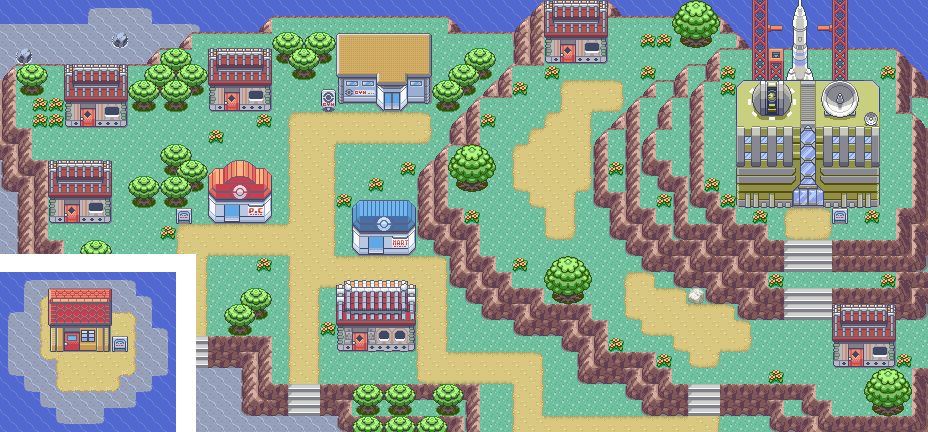
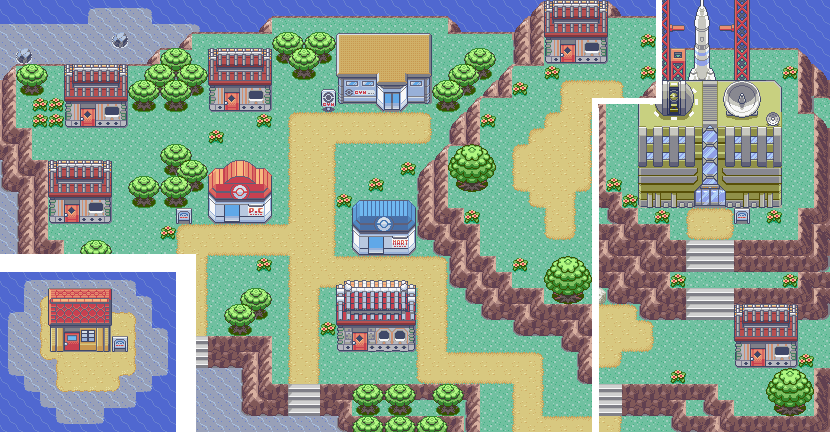
Reduced width in emerald

diff --git a/emerald.js b/emerald.js
@@ -100,14 +100,14 @@ var emerald = {
         },
 
         mauville_r117: {
-            gym:     {x: 346, y: 53 },
-            center:  {x: 571, y: 56 },
-            bicycle: {x: 779, y: 55 },
-            casino:  {x: 345, y: 175},
-            left:    {x: 524, y: 197},
-            mart:    {x: 596, y: 260},
-            right:   {x: 731, y: 200},
-            daycare: {x: 103, y: 156},
+            gym:     {x: 135, y: 50 },
+			center:  {x: 369, y: 50 },
+			bicycle: {x: 569, y: 50 },
+			casino:  {x: 135, y: 179},
+			left:    {x: 310, y: 190},
+			mart:    {x: 378, y: 260},
+			right:   {x: 526, y: 190},
+			daycare: {x: 115, y: 374},
         },
 
         verdanturf: {
@@ -178,8 +178,8 @@ var emerald = {
             center:     {x: 239, y: 188, name: "Mossdeep City"},
             mart:       {x: 385, y: 222, name: "Mossdeep City"},
             botmart:    {x: 374, y: 315, name: "Mossdeep City"},
-            space:      {x: 808, y: 160, name: "Mossdeep City"},
-            botspace:   {x: 854, y: 330, name: "Mossdeep City"},
+            space:      {x: 710, y: 160, name: "Mossdeep City"},
+            botspace:   {x: 748, y: 330, name: "Mossdeep City"},
             leftspace:  {x: 574, y: 24 , name: "Mossdeep City"},
             r124:       {x: 73,  y: 314, name: "Route 124"    },
         },
@@ -403,29 +403,36 @@ var emerald = {
             hub_row4right:    {x: 474, y: 361, name: "Aqua Hideout (Hub 4)"},
         },
         seafloor_underwater: {
-            underwater_r126: {x: 319, y: 793, name: "Route 126"          },
-            underwater_r128: {x: 610, y: 848, name: "Route 128"          },
+            underwater_r126: {x: 151, y: 660, name: "Route 126"          },
+            underwater_r128: {x: 711, y: 660, name: "Route 128"          },
+
             room1_top:       {x: 104, y: 60 , name: "Seafloor (Room 1)"  },
             room1_right:     {x: 279, y: 207, name: "Seafloor (Room 1)"  },
             room1_left:      {x: 87,  y: 284, name: "Seafloor (Room 1)"  },
-            room2_top:       {x: 409, y: 50 , name: "Seafloor (Room 2)"  },
-            room2_right:     {x: 584, y: 193, name: "Seafloor (Room 2)"  },
-            room2_left:      {x: 456, y: 268, name: "Seafloor (Room 2)"  },
-            room3_topleft:   {x: 735, y: 50 , name: "Seafloor (Room 3)"  },
-            room3_topright:  {x: 901, y: 50 , name: "Seafloor (Room 3)"  },
-            room3_mid:       {x: 826, y: 186, name: "Seafloor (Room 3)"  },
-            room3_bot:       {x: 840, y: 284, name: "Seafloor (Room 3)"  },
-            room4_topleft:   {x: 104, y: 400, name: "Seafloor (Boulders)"},
-            room4_topright:  {x: 186, y: 365, name: "Seafloor (Boulders)"},
-            room4_botleft:   {x: 72,  y: 512, name: "Seafloor (Boulders)"},
-            room4_botright:  {x: 167, y: 461, name: "Seafloor (Boulders)"},
-            room5_top:       {x: 376, y: 400, name: "Seafloor (Surf)"    },
-            room5_mid:       {x: 534, y: 510, name: "Seafloor (Surf)"    },
-            room5_bot:       {x: 488, y: 684, name: "Seafloor (Surf)"    },
-            room7_top:       {x: 841, y: 400, name: "Seafloor (Puzzle)"  },
-            room7_left:      {x: 776, y: 590, name: "Seafloor (Puzzle)"  },
-            room7_right:     {x: 856, y: 556, name: "Seafloor (Puzzle)"  },
+
+            room2_top:       {x: 370, y: 50 , name: "Seafloor (Room 2)"  },
+            room2_right:     {x: 540, y: 185, name: "Seafloor (Room 2)"  },
+            room2_left:      {x: 416, y: 268, name: "Seafloor (Room 2)"  },
+
+            room3_topleft:   {x: 606, y: 50 , name: "Seafloor (Room 3)"  },
+            room3_topright:  {x: 755, y: 50 , name: "Seafloor (Room 3)"  },
+            room3_mid:       {x: 696, y: 185, name: "Seafloor (Room 3)"  },
+            room3_bot:       {x: 711, y: 284, name: "Seafloor (Room 3)"  },
+
+            room4_topleft:   {x: 104, y: 390, name: "Seafloor (Boulders)"},
+            room4_topright:  {x: 186, y: 335, name: "Seafloor (Boulders)"},
+            room4_botleft:   {x: 76,  y: 512, name: "Seafloor (Boulders)"},
+            room4_botright:  {x: 167, y: 450, name: "Seafloor (Boulders)"},
+
+            room5_top:       {x: 333, y: 400, name: "Seafloor (Surf)"    },
+            room5_mid:       {x: 493, y: 507, name: "Seafloor (Surf)"    },
+            room5_bot:       {x: 445, y: 674, name: "Seafloor (Surf)"    },
+
+            room7_top:       {x: 712, y: 379, name: "Seafloor (Puzzle)"  },
+            room7_right:     {x: 726, y: 525, name: "Seafloor (Puzzle)"  },
+            room7_left:      {x: 646, y: 560, name: "Seafloor (Puzzle)"  },
         },
+
         skypillar_r131: {
             r131_entrance: {x: 184, y: 551, name: "Route 131 (Sky Pillar)"},
             f1_entrance:   {x: 111, y: 431, name: "Sky Pillar (1F)"       },
